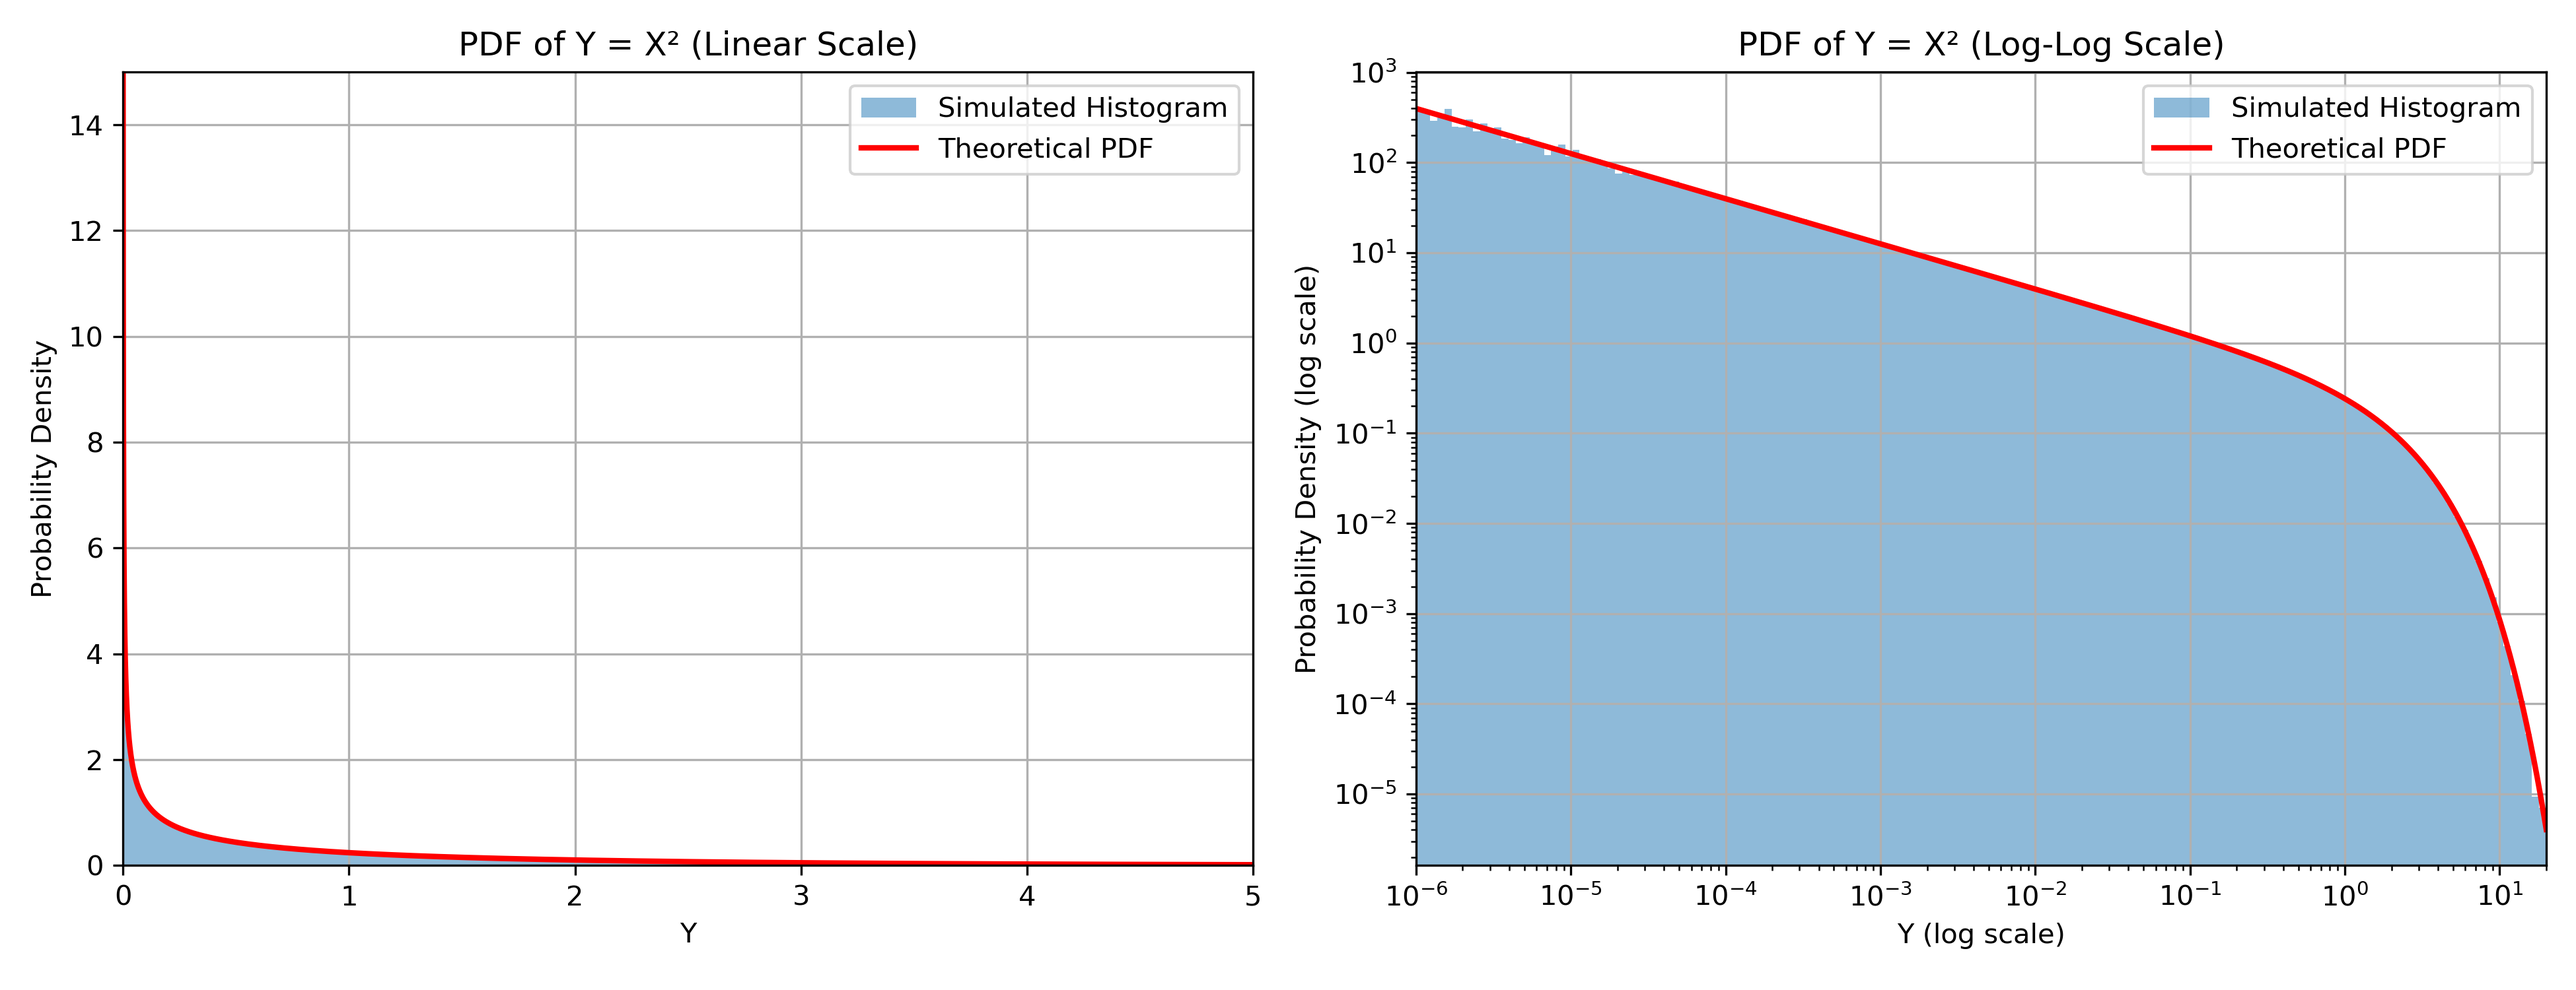
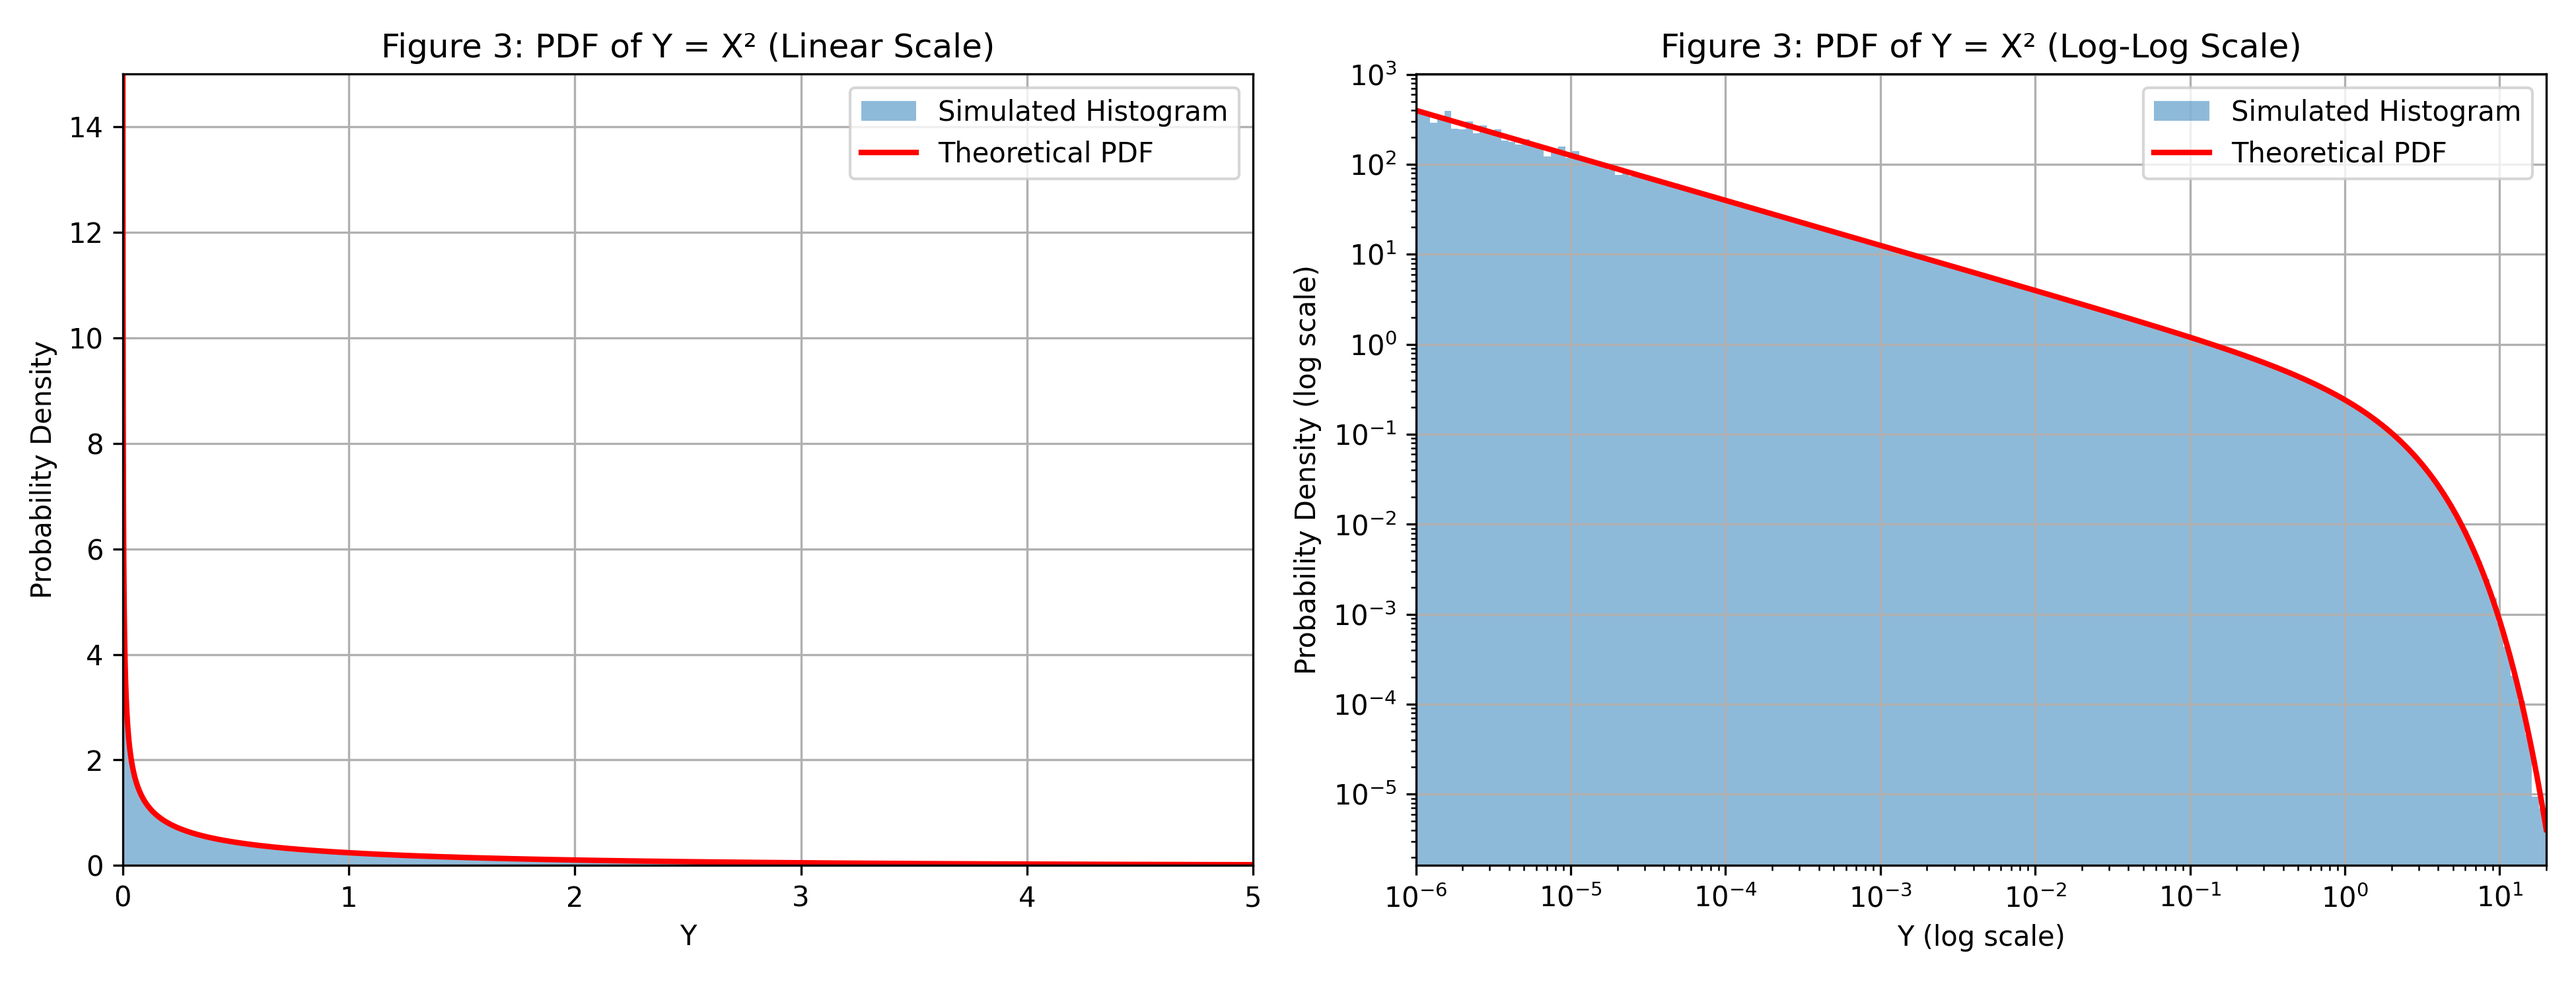
added code for sections 5 and 6

diff --git a/mp2/README.md b/mp2/README.md
@@ -3,8 +3,8 @@ Section 1: Completed by David (CDF to Density) <br>
 Section 2: Completed by David (Inversion Generator) <br>
 Section 3: Completed by Sikan (A function of a random variable) <br>
 Section 4: Completed by Sikan (Expectation and moments) <br>
-Section 5:  <br>
-Section 6:  <br>
+Section 5: Completed by Andrew (The Central Limit Theorem, and Where it Fails) <br>
+Section 6: Completed by Andrew (A Threshold Detector in Gaussiam Noise) <br>
 Section 7:  <br>
 Section 8:  <br>
 Section EC:  <br>

diff --git a/README.md b/README.md
@@ -4,6 +4,7 @@ Cal Poly Pomona <br>
 Dept. of Electrical & Computer Engineering <br>
 
 Mini Project 1: Probability, Bayes, and Discrete Random Variables <br>
+Mini Project 2: Continuous Random Variables <br>
 
 Professor: Dr. Nir Regev <br>
 
